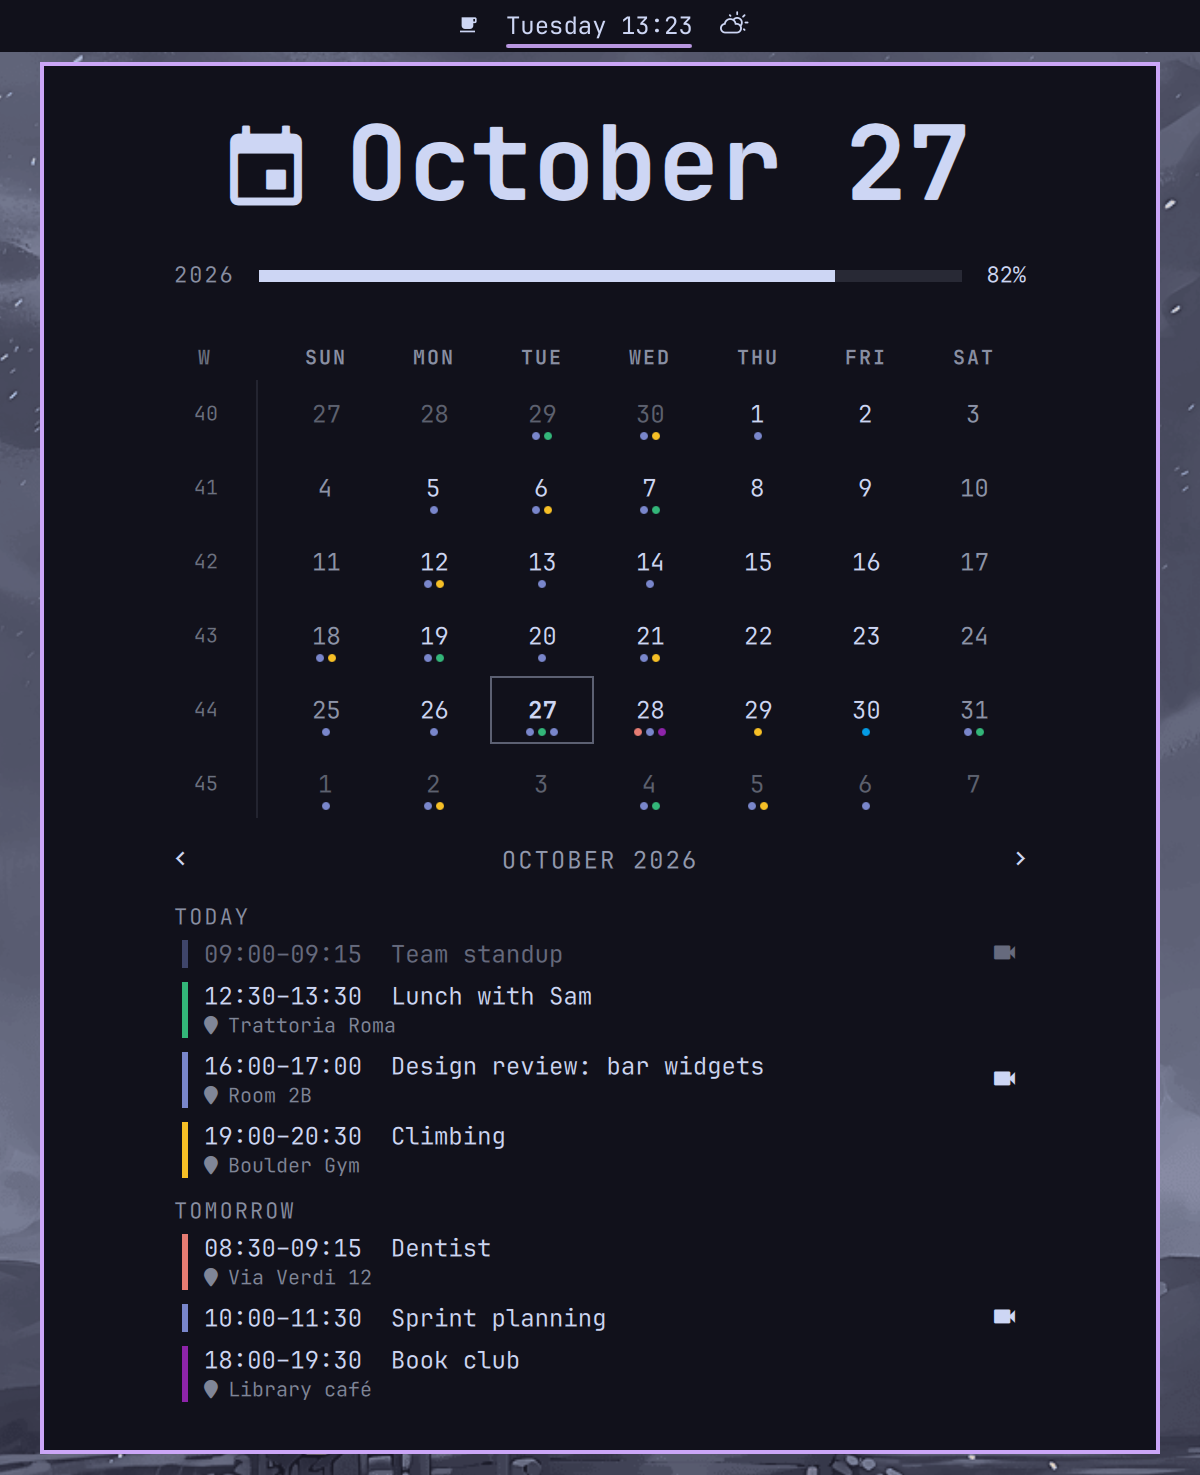
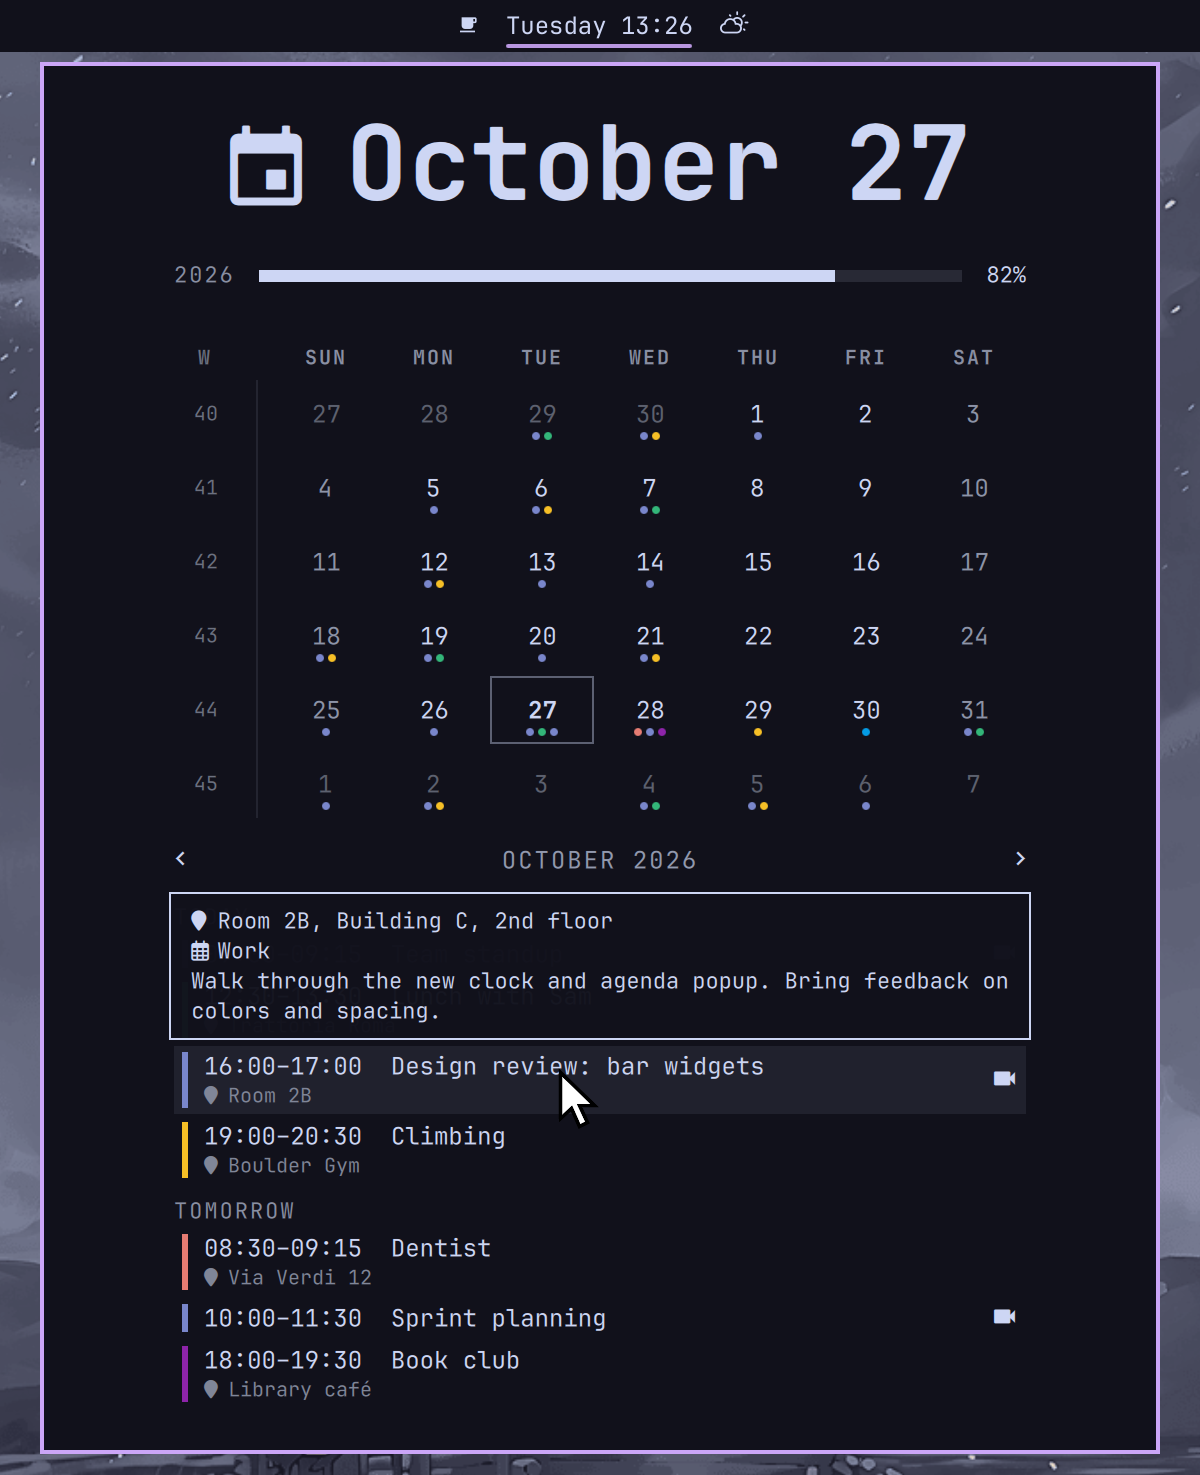
Show hover details in preview screenshot

Changed region(s): [[0.1233, 0.5925, 0.8017, 0.7173], [0.4625, 0.7173, 0.4933, 0.7797], [0.8325, 0.6237, 0.8633, 0.6549]]

diff --git a/README.md b/README.md
@@ -3,7 +3,7 @@
 An Omarchy bar clock whose popup shows a month calendar with ISO week numbers
 and your Google Calendar events.
 
-![Clock & Agenda popup with a month calendar and the day's events](preview.png)
+![Clock & Agenda popup: month calendar with event dots, and the agenda with an event's details shown on hover](preview.png)
 
 - Days get a colored dot per event, in the event's Google Calendar color; hover to list them.
 - Below the month: an agenda of the next seven days, or the events of a clicked day,
